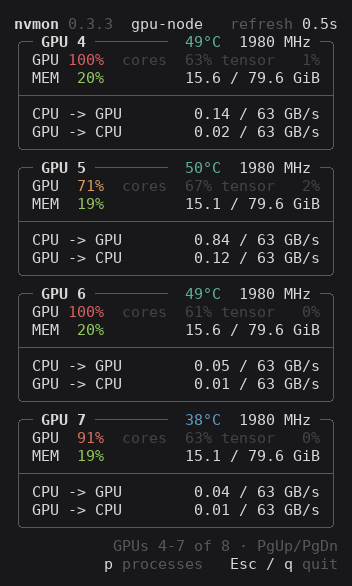
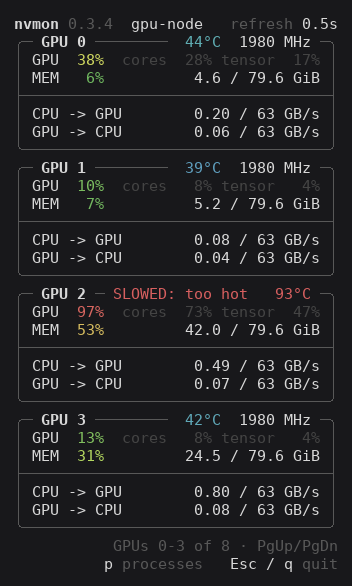
README's pictures from a made-up server: han's and yoon's jobs, a GPU held back by heat
docs/demo.py now draws nvmon on a scripted server instead of recording a real one, so the pictures come out
the same each time and need no GPU. The themes are shown on a GPU that goes from idle to full; the numbers
view shows the first four GPUs.

diff --git a/docs/demo.py b/docs/demo.py
@@ -1,85 +1,148 @@
-"""Record nvmon on this machine's GPUs and write the README's pictures: a GIF and a still of it (for link
-previews and tool directories), stills of its views and of the process list, and one of its themes:
+"""Write the README's pictures of nvmon on a made-up GPU server: a GIF and a still of it (for link previews and
+tool directories), stills of its views and of the process list, and one of its themes:
 
-    uv run --with pillow docs/demo.py [SECONDS]
+    uv run --with pillow docs/demo.py
 
-Process names, conda environments, accounts, commands and the host name are swapped for made-up ones,
-so nothing of the machine or its users shows. Needs an NVIDIA GPU, and DejaVu Sans Mono for the text.
+The server is a script: each GPU's utilization and memory over time and the processes on it, the rest as an H100
+shows it. So the pictures come out the same each time, but for the clock, and need no GPU; only DejaVu Sans Mono
+for the text.
 """
 import itertools
 import math
 import os
+import random
 import re
 import sys
 import time
+from collections import deque
 
 from PIL import Image, ImageDraw, ImageFont
 
 sys.path.insert(0, os.path.join(os.path.dirname(os.path.abspath(__file__)), ".."))
 import nvmon  # noqa: E402
 
-SHOWN = 4  # GPUs in the GIF, the busiest: the others hidden, as a click on their numbers does
-SIZES = [("demo-wide.gif", 120, SHOWN * (nvmon.MAX_INNER_H + 2) + 2)]  # (file, columns, rows): one under the other
+# ── the server ───────────────────────────────────────────────────────────────
+
+WARM, SECONDS = 240, 10  # half-second ticks that fill the graphs before the GIF; the GIF's length
+TICKS = WARM + 2 * SECONDS
 
 
-def biggest_job(view):
-    """The job most worth showing: one with a launcher (torchrun), the most memory."""
-    return max(view.jobs, key=lambda job: (job.launcher is not None, job.mem)).pid
+class Clock:
+    """nvmon's time: as in the real world, but for time.time(), which goes on half a second a tick here."""
+    now = time.time()
+
+    def time(self):
+        return Clock.now
+
+    def __getattr__(self, name):
+        return getattr(time, name)
 
 
-def listing(view):
-    view.listing, view.sort = True, ("util", True)
-    view.pick([biggest_job(view)])
+# Utilization over TICKS ticks, by kind of work.
+
+def phases(rng, segments):
+    """By turns: (ticks, level, spread, gaps) segments, the last long enough to reach the end; `gaps`, the
+    chance a tick drops near zero (a step waiting on something)."""
+    out = [3 + rng.uniform(0, 8) if rng.random() < gaps else level + rng.gauss(0, spread)
+           for ticks, level, spread, gaps in segments for _ in range(ticks)]
+    return out[:TICKS]
 
 
-def focus(view):
-    view.pick([biggest_job(view)])
-    view.only = True
+def blocks(rng, high=95, low=18, busy=(12, 22), quiet=(5, 12)):
+    """A sweep: run after run, each busy for a while, a pause between."""
+    out = []
+    while len(out) < TICKS:
+        out += [high + rng.gauss(0, 4) for _ in range(rng.randint(*busy))]
+        out += [low + rng.gauss(0, 8) for _ in range(rng.randint(*quiet))]
+    return out[:TICKS]
 
 
-def numbers(view):
-    view.left, view.gpu_top = "numbers", 10  # scrolled down to the last GPUs, the busy ones
+def wavering(rng, center=45):
+    """A job its data loader keeps waiting: never long busy, never long idle."""
+    out, u = [], 40.0
+    for _ in range(TICKS):
+        u += (center - u) * 0.3 + rng.uniform(-24, 24)
+        out.append(min(88, u))
+    return out
 
 
-# (file, columns, rows, what is set on the view). The cards' windows are as narrow as the cards, as a window
-# kept beside another; the numbers' window too short for all eight, the brief ones' just tall enough.
-STILLS = [("view-graphs.png", 160, 31, lambda view: None),  # too short for eight one under the other
-          ("view-processes.png", 160, 31, lambda view: setattr(view, "left", "processes")),
-          ("view-numbers.png", nvmon.CARD_W, 31, numbers),
-          ("view-brief.png", nvmon.CARD_W, 8 * (nvmon.MIN_INNER_H + 2) + 2,
-           lambda view: setattr(view, "left", "brief")),
-          ("list.png", 160, 48, listing),
-          ("focus.png", 160, 31, focus)]
-FONT = "/usr/share/fonts/truetype/dejavu/DejaVuSansMono{}.ttf"
-CELL_W, CELL_H, PAD, SIZE = 9, 18, 14, 15
-BG, FG = (24, 24, 27), (215, 215, 215)
+def bursts(rng, low=6, high=84):
+    """Serving requests: bursts of work, quiet between."""
+    out = []
+    while len(out) < TICKS:
+        busy = rng.random() < 0.5
+        out += [(high if busy else low) + rng.uniform(-10, 8)
+                for _ in range(rng.randint(3, 12) if busy else rng.randint(2, 9))]
+    return out[:TICKS]
 
 
-def anonymize():
-    """Swap every process's name, account, environment and command for made-up ones, consistently."""
-    jobs, alone = iter(["train.py", "finetune.py", "pretrain.py"]), iter(["sweep.py", "eval.py", "bench.py"])
-    owners, envs = iter(["kim", "lee", "park", "choi"]), iter(["torch", "jax", "vllm", "hf"])
-    seen = {}
-
-    def pick(pool, value, fallback):
-        if value and (id(pool), value) not in seen:
-            seen[id(pool), value] = next(pool, fallback)
-        return seen.get((id(pool), value))
-
-    real = nvmon.Gpu._facts_of
-
-    def facts(self, pid):
-        name, _, owner, env, started, job, launcher = real(self, pid)
-        name = pick(jobs, name, "job.py") if launcher else pick(alone, name, "run.py")  # launched: training
-        command = "{} --config configs/{}.yaml --seed {}".format(name, name[:-3], pid % 7)
-        return (name, command, pick(owners, owner, "user"), pick(envs, env, "env"), started, job,
-                "torchrun" if launcher else None)
-
-    nvmon.Gpu._facts_of = facts
-    nvmon.socket.gethostname = lambda: "gpu-node"
-    nvmon.__version__ = nvmon.__version__.split("+")[0]  # as released, not "+dev"
+def idle(rng):
+    return [0] * TICKS
 
 
+# The share of the utilization the SMs and the Tensor Cores are busy, by kind of work (cores, tensor)
+KINDS = {phases: (0.7, 0.45), blocks: (0.74, 0.48), wavering: (0.55, 0.28), bursts: (0.62, 0.34), idle: (0, 0)}
+
+
+class Scripted(nvmon.Gpu):
+    """An H100 whose readings come from a script, not a driver: `kind` of work (with `shape`, its arguments)
+    using `mem` GiB for `procs`; `hot`: held back by heat."""
+
+    def __init__(self, index, kind, mem, procs, hot=False, **shape):
+        self.index, self.name = index, "H100 80GB HBM3"
+        self.history, self.memory = deque(maxlen=nvmon.HISTORY), deque(maxlen=nvmon.HISTORY)
+        self.sample = self.now = None
+        self.pcie_max_gen, self.pcie_max_width, self.has_activity = 5, 16, True
+        self.utils = kind(random.Random(index), **shape)
+        self.kind, self.mem, self.procs, self.hot = kind, mem, procs, hot
+        self.rng, self.tick, self.temp = random.Random(index * 7 + 3), 0, 31.0
+
+    def poll(self, detail=False):
+        u = max(0, min(100, round(self.utils[min(self.tick, TICKS - 1)])))
+        self.tick += 1
+        # It warms and cools slowly; held back by heat, until it has cooled
+        self.temp += (31 + (0.42 * u + 28 * self.hot) * (u > 0) - self.temp) * 0.06
+        cores, tensor = KINDS[self.kind]
+        mem = self.mem + self.rng.uniform(-0.05, 0.05) if self.mem else 0.0
+        busy = bool(self.procs)
+        self.sample = nvmon.Sample(
+            util=u, temp=round(self.temp), fan=None, power_limit=700,
+            power=min(700, 72 + 6.2 * u + self.rng.uniform(-8, 8)) if busy else 70 + self.rng.uniform(-3, 3),
+            clock=(1350 + self.rng.randint(-60, 60) if self.hot else 1980) if busy else 345,
+            mem_used=mem, mem_total=79.6, pcie_width=16,
+            tx=(0.02 + 0.06 * self.rng.random()) * 1e9 * (u > 0),
+            rx=((6 if self.kind is wavering else 0.5) * u / 100 + 0.05 * self.rng.random()) * 1e9 * (u > 0),
+            cores=cores * u + self.rng.uniform(0, 2) * (u > 0), tensor=tensor * u,
+            slowdown=("SLOWED: too hot", nvmon.ALERT) if self.hot and busy else None,
+            processes=[p._replace(mem=mem / len(self.procs)) for p in self.procs],
+            process_util={p.pid: u / len(self.procs) for p in self.procs} if detail else None)
+
+
+def proc(pid, name, owner, env, minutes, args, job=None, launcher=None):
+    """A process `minutes` old; `owner` None for ours."""
+    return nvmon.Process(pid, name, name + " " + args, 0, owner, env, Clock.now - 60 * minutes, job or pid, launcher)
+
+
+def server():
+    """The eight GPUs, and the four the GIF shows: han's training on 0-1 (busy, then less so; low and broken),
+    yoon's sweeps on 2-3 (one in big blocks, on a GPU held back by heat); a model being served, our evaluation
+    waiting on its data loader, a notebook holding memory, and one idle."""
+    han = [proc(241801 + k, "train.py", "han", "torch", 312, "--config configs/train.yaml", 241800, "torchrun")
+           for k in range(2)]
+    gpus = [Scripted(0, phases, 4.6, han[:1], segments=[(190, 93, 6, 0.03), (200, 34, 9, 0.08)]),
+            Scripted(1, phases, 5.2, han[1:], segments=[(400, 20, 8, 0.15)]),
+            Scripted(2, blocks, 42.0, [proc(287700, "sweep.py", "yoon", "jax", 97, "--lr 1e-4")], hot=True),
+            Scripted(3, wavering, 24.5, [proc(270500, "sweep.py", "yoon", "jax", 1800, "--lr 3e-4")], center=35),
+            Scripted(4, bursts, 71.2, [proc(198733, "serve.py", "park", "vllm", 1520, "--model llama-3-8b")]),
+            Scripted(5, wavering, 22.4, [proc(325017, "eval.py", None, "torch", 26, "--config configs/eval.yaml")]),
+            Scripted(6, idle, 31.5, [proc(287390, "ipykernel_launcher", "choi", "hf", 2900, "-f kernel.json")]),
+            Scripted(7, idle, 0, [])]
+    return gpus, (0, 1, 2, 3)
+
+
+# ── the GIF ──────────────────────────────────────────────────────────────────
+
+GIF = ("demo-wide.gif", 120, 4 * (nvmon.MAX_INNER_H + 2) + 2)  # (file, columns, rows): four boxes one under the other
 STEPS = 6  # frames a half second while the pointer is in, as nvmon redraws on each move
 STILL_AT = 5.2  # seconds into the GIF for its still: the pointer resting on a graph, its chip shown
 
@@ -97,7 +160,7 @@ def pointer_path(view, cols):
 def along(path, t):
     """The pointer's (row, column) at `t` seconds on `path`, or None before and after: each way eased in and
     out, as a hand starts and stops, and bent by its bow."""
-    if not path or not path[0][0] <= t <= path[-1][0]:
+    if not path[0][0] <= t <= path[-1][0]:
         return None
     for (t0, a, _), (t1, b, bow) in zip(path, path[1:]):
         if t0 <= t <= t1:
@@ -107,40 +170,64 @@ def along(path, t):
     return None
 
 
-def record(seconds, warm_up=70):
-    """Screens every half second, and more often while the pointer moves: {file: [(lines, pointer or None,
-    milliseconds), ...]}, and the GPUs as they are at the end. The first `warm_up` seconds are not kept:
-    they fill the graphs."""
-    nv = nvmon.load_nvml()
-    gpus, driver = nvmon.open_gpus(nv), nvmon.versions(nv)
-    views = {name: nvmon.View() for name, *_ in SIZES}
-    frames = {name: [] for name, *_ in SIZES}
-    paths = {}
-    for tick in range(-int(warm_up * 2), int(seconds * 2)):
-        start = time.monotonic()
+def record(gpus, shown, driver):
+    """The GIF's screens, every half second and more often while the pointer moves: [(lines, pointer or None,
+    milliseconds)], after WARM ticks have filled the graphs."""
+    def tick():
         for gpu in gpus:
             gpu.poll(detail=True)
             gpu.frame()
-        if tick < 0:
-            time.sleep(max(0, 0.5 - (time.monotonic() - start)))
-            continue
-        for name, cols, rows in SIZES:
-            view = views[name]
-            if tick == 0:
-                busiest = sorted(gpus, key=lambda gpu: -sum(gpu.history))[:SHOWN]
-                view.hidden = {gpu.index for gpu in gpus if gpu not in busiest}
-                view.screen(gpus, cols, rows, [], None)  # where the graphs are, for the pointer's path
-                paths[name] = pointer_path(view, cols)
-            moving = any(along(paths[name], tick / 2 + s / 2 / STEPS) for s in range(STEPS))
-            steps = STEPS if moving else 1
-            for s in range(steps):
-                at = along(paths[name], tick / 2 + s / 2 / steps)
-                cell = at and (round(at[0]), round(at[1]))  # outside the window the terminal says nothing
-                view.pointer = cell if cell and 0 <= cell[0] < rows and 0 <= cell[1] < cols else None
-                lines = view.screen(gpus, cols, rows, nvmon.header(cols, 0.5, driver), None)
-                frames[name].append((lines, at, 500 // steps))
-        time.sleep(max(0, 0.5 - (time.monotonic() - start)))
-    return frames, gpus, driver
+    for _ in range(WARM):
+        tick()
+        Clock.now += 0.5
+    _, cols, rows = GIF
+    view = nvmon.View()
+    view.hidden = {gpu.index for gpu in gpus if gpu.index not in shown}  # as a click on their numbers does
+    frames, path = [], None
+    for k in range(2 * SECONDS):
+        tick()
+        if path is None:
+            view.screen(gpus, cols, rows, [], None)  # where the graphs are, for the pointer's path
+            path = pointer_path(view, cols)
+        steps = STEPS if any(along(path, k / 2 + s / 2 / STEPS) for s in range(STEPS)) else 1
+        for s in range(steps):
+            at = along(path, k / 2 + s / 2 / steps)
+            cell = at and (round(at[0]), round(at[1]))  # outside the window the terminal says nothing
+            view.pointer = cell if cell and 0 <= cell[0] < rows and 0 <= cell[1] < cols else None
+            frames.append((view.screen(gpus, cols, rows, nvmon.header(cols, 0.5, driver), None), at, 500 // steps))
+            Clock.now += 0.5 / steps
+    return frames
+
+
+# ── pictures ─────────────────────────────────────────────────────────────────
+
+def biggest_job(view):
+    """The job most worth showing: one with a launcher (torchrun), the most memory."""
+    return max(view.jobs, key=lambda job: (job.launcher is not None, job.mem)).pid
+
+
+def listing(view):
+    view.listing, view.sort = True, ("util", True)
+    view.pick([biggest_job(view)])
+
+
+def focus(view):
+    view.pick([biggest_job(view)])
+    view.only = True
+
+
+# (file, columns, rows, what is set on the view). The cards' windows are as narrow as the cards, as a window
+# kept beside another; the numbers' window too short for all eight, the brief ones' just tall enough.
+STILLS = [("view-graphs.png", 160, 31, lambda view: None),  # too short for eight one under the other
+          ("view-processes.png", 160, 31, lambda view: setattr(view, "left", "processes")),
+          ("view-numbers.png", nvmon.CARD_W, 31, lambda view: setattr(view, "left", "numbers")),
+          ("view-brief.png", nvmon.CARD_W, 8 * (nvmon.MIN_INNER_H + 2) + 2,
+           lambda view: setattr(view, "left", "brief")),
+          ("list.png", 160, 48, listing),
+          ("focus.png", 160, 31, focus)]
+FONT = "/usr/share/fonts/truetype/dejavu/DejaVuSansMono{}.ttf"
+CELL_W, CELL_H, PAD, SIZE = 9, 18, 14, 15
+BG, FG = (24, 24, 27), (215, 215, 215)
 
 
 def palette256(n):
@@ -247,36 +334,42 @@ def gallery(gpu, fonts, width=80):
     return image
 
 
-def stills(gpus, driver, fonts, here):
+def save(image, here, name):
+    image.save(os.path.join(here, name), optimize=True)
+    print(name, os.path.getsize(os.path.join(here, name)) // 1024, "KB")
+
+
+def main():
+    nvmon.time = Clock()
+    nvmon.socket.gethostname = lambda: "gpu-node"
+    nvmon.__version__ = nvmon.__version__.split("+")[0]  # as released, not "+dev"
+    driver = "driver 580.173.02  CUDA 13.0"
+    fonts = {False: ImageFont.truetype(FONT.format(""), SIZE), True: ImageFont.truetype(FONT.format("-Bold"), SIZE)}
+    here = os.path.dirname(os.path.abspath(__file__))
+    gpus, shown = server()
+    frames = record(gpus, shown, driver)
+    name, cols, rows = GIF
+    pictures = [picture(lines, cols, rows, fonts) for lines, _, _ in frames]
+    pictures = [arrow(p, at) if at else p for p, (_, at, _) in zip(pictures, frames)]
+    starts = itertools.accumulate([0] + [ms for _, _, ms in frames])
+    save(next((p for p, start in zip(pictures, starts) if start >= STILL_AT * 1000), pictures[-1]), here,
+         name.replace(".gif", ".png"))
+    pictures = [p.quantize(colors=128, method=Image.Quantize.MEDIANCUT) for p in pictures]
+    pictures[0].save(os.path.join(here, name), save_all=True, append_images=pictures[1:],
+                     duration=[ms for _, _, ms in frames], loop=0, optimize=True)
+    print(name, os.path.getsize(os.path.join(here, name)) // 1024, "KB")
     for name, cols, rows, setup in STILLS:
         view = nvmon.View()
         view.screen(gpus, cols, rows, [], None)  # the jobs, for setup to pick from
         setup(view)
-        lines = view.screen(gpus, cols, rows, nvmon.header(cols, 0.5, driver), None)
-        picture(lines, cols, rows, fonts).save(os.path.join(here, name), optimize=True)
-        print(name, os.path.getsize(os.path.join(here, name)) // 1024, "KB")
-
-
-def main():
-    seconds = float(sys.argv[1]) if len(sys.argv) > 1 else 10
-    anonymize()
-    frames, gpus, driver = record(seconds)
-    fonts = {False: ImageFont.truetype(FONT.format(""), SIZE), True: ImageFont.truetype(FONT.format("-Bold"), SIZE)}
-    here = os.path.dirname(os.path.abspath(__file__))
-    for name, cols, rows in SIZES:
-        pictures = [picture(lines, cols, rows, fonts) for lines, _, _ in frames[name]]
-        pictures = [arrow(p, at) if at else p for p, (_, at, _) in zip(pictures, frames[name])]
-        starts = itertools.accumulate([0] + [ms for _, _, ms in frames[name]])
-        still = next((p for p, start in zip(pictures, starts) if start >= STILL_AT * 1000), pictures[-1])
-        still.save(os.path.join(here, name.replace(".gif", ".png")), optimize=True)
-        pictures = [p.quantize(colors=128, method=Image.Quantize.MEDIANCUT) for p in pictures]
-        pictures[0].save(os.path.join(here, name), save_all=True, append_images=pictures[1:],
-                         duration=[ms for _, _, ms in frames[name]], loop=0, optimize=True)
-        print(name, os.path.getsize(os.path.join(here, name)) // 1024, "KB")
-    stills(gpus, driver, fonts, here)
-    busiest = max(gpus, key=lambda gpu: sum(gpu.history))
-    gallery(busiest, fonts).save(os.path.join(here, "themes.png"), optimize=True)
-    print("themes.png", os.path.getsize(os.path.join(here, "themes.png")) // 1024, "KB")
+        save(picture(view.screen(gpus, cols, rows, nvmon.header(cols, 0.5, driver), None), cols, rows, fonts), here,
+             name)
+    # The themes on GPU 2's sweep, idle to full and back, without the heat to warn of
+    calm = Scripted(2, blocks, 42.0, gpus[2].procs)
+    for _ in range(TICKS):
+        calm.poll()
+        calm.frame()
+    save(gallery(calm, fonts), here, "themes.png")
 
 
 if __name__ == "__main__":

diff --git a/README.md b/README.md
@@ -2,7 +2,7 @@
 
 A fancy NVIDIA GPU monitor for the terminal. One Python file, no dependencies.
 
-![nvmon showing four busy H100 GPUs one under the other, the other four hidden, the pointer moving along a graph with the utilization then beside it](https://raw.githubusercontent.com/Han-DongHeun/nvmon/main/docs/demo-wide.gif)
+![nvmon showing four H100 GPUs one under the other, two people's jobs on them, the other four hidden, the pointer moving along a graph with the utilization and memory then beside it](https://raw.githubusercontent.com/Han-DongHeun/nvmon/main/docs/demo-wide.gif)
 
 ## Install
 
@@ -58,7 +58,7 @@ Shift+wheel or ← → sideways.
 
 <div align="center">
 
-| Numbers only, scrolled down | GPU and MEM only |
+| Numbers only | GPU and MEM only |
 |:---:|:---:|
 | <img src="https://raw.githubusercontent.com/Han-DongHeun/nvmon/main/docs/view-numbers.png" alt="nvmon with the numbers alone" width="200"> | <img src="https://raw.githubusercontent.com/Han-DongHeun/nvmon/main/docs/view-brief.png" alt="nvmon with GPU and MEM alone" width="200"> |
 
